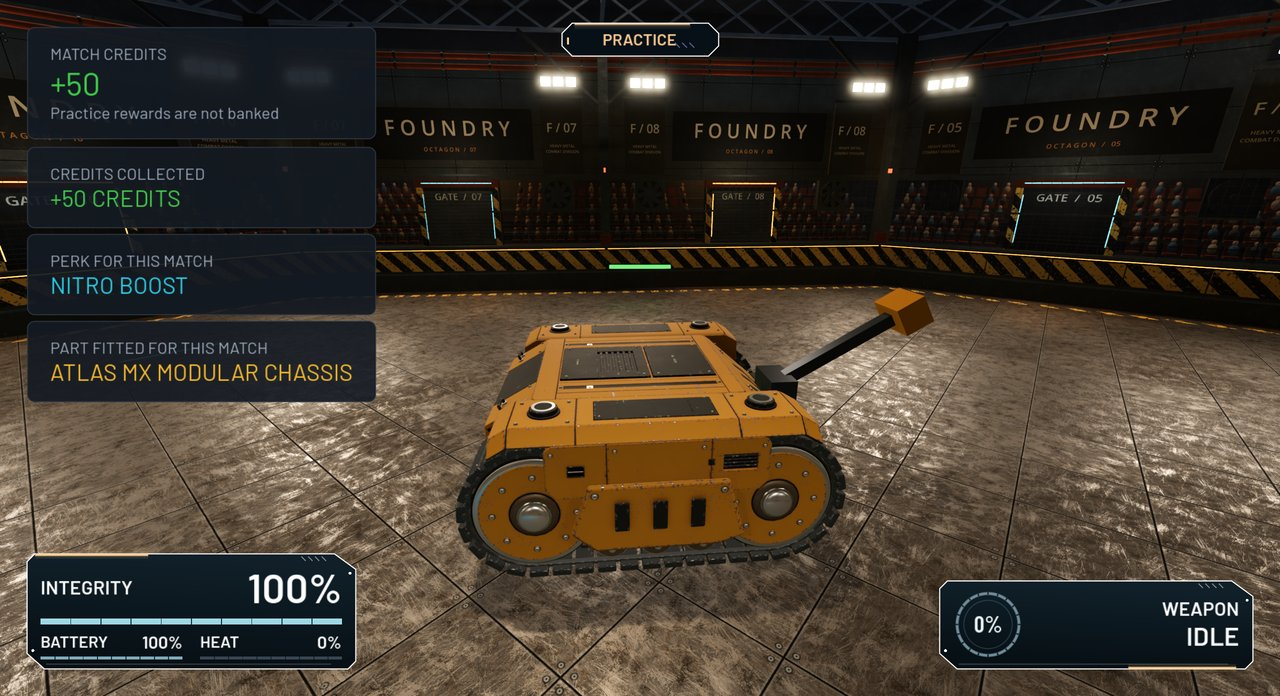
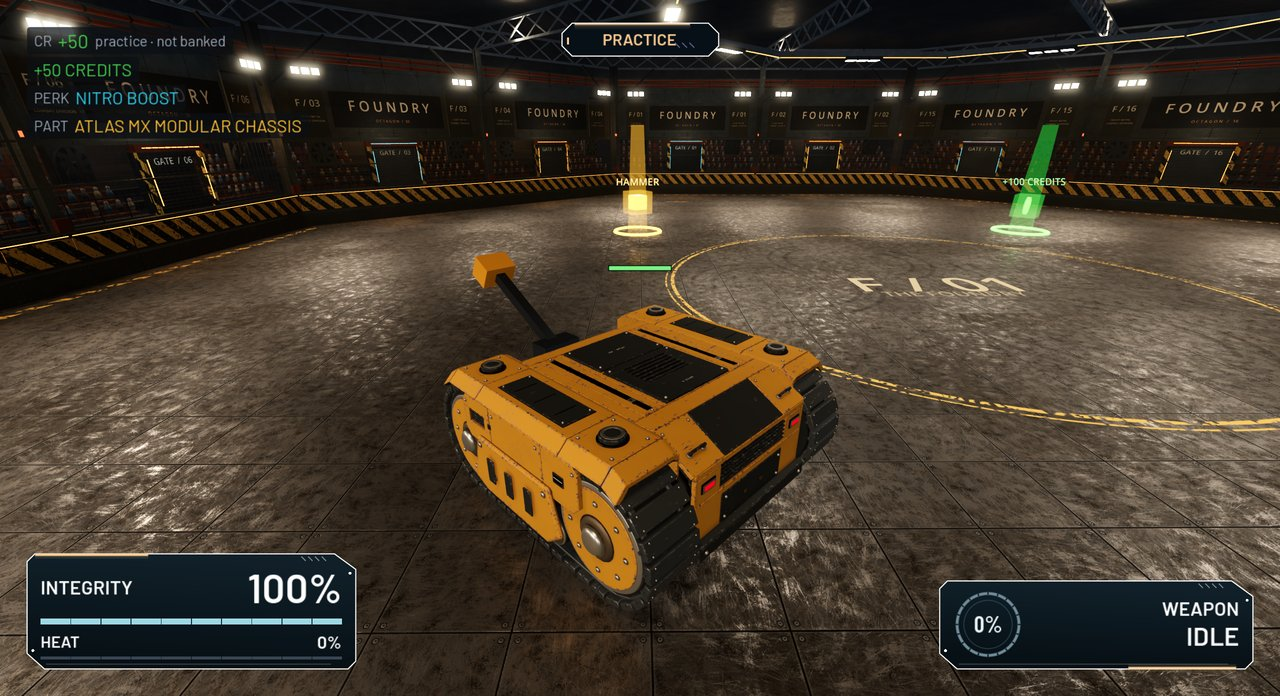
Explain refused pickups with a centred HUD notice
When a bot touches an item it cannot take (perk or part already fitted,
or a part that does not fit the build), the server reports the reason
once per contact to that bot's owner only, and the HUD shows centred text
such as "NITRO BOOST ALREADY EQUIPPED". New reliable _pickup_refused
RPC: protocol 10, build mvp-ab-21. Refs #35.

diff --git a/docs/coordination/MATCH_PICKUPS.md b/docs/coordination/MATCH_PICKUPS.md
@@ -48,6 +48,11 @@ approval for the A areas it touches (world, session/network, HUD, results). Cont
   match's credits, and up to three one-line toasts (`PART …`, `PERK …`, `+N CREDITS`) for the local
   player's pickups. The whole feed is about 94 px tall at 720p. It follows HUD text scale and stacks below
   the enlarged practice panel.
+- `PickupNotice` shows centred amber text on a dark backing, just above the audio-caption band, when the
+  server refuses a pickup the local player touched: `NITRO BOOST ALREADY EQUIPPED`, `HAMMER ALREADY
+  FITTED` or `<PART> DOESN'T FIT YOUR BUILD`. It fades after 2.5 s. The server reports a refusal once
+  per contact (again after the bot drives off and back, or the item respawns with new contents), and
+  only to that bot's owner.
 - Results overview shows `+N CREDITS EARNED · performance · pickups`. The menu header shows the
   wallet balance (`%ScrapAmount`, `%ProfileMeta`) in place of the old placeholder scrap readout.
 

diff --git a/docs/CONTRACTS.md b/docs/CONTRACTS.md
@@ -891,7 +891,10 @@ other slot replaces the MvpBot node under the same entity id and emits
 `{match_id, revision, items:[{id, point, kind, part, amount, available}],
 credits:{entity:int}, loadouts:{entity:loadout}, events:[...]}`. Clients apply
 `loadouts` through `apply_loadout` and expose `pickup_view` (without
-loadouts/events), `pickups_changed` and `pickup_collected(event)`. Results
+loadouts/events), `pickups_changed` and `pickup_collected(event)`. A refused touch
+(`MatchPickups.refusals`: `{entity, item, kind, part, reason: equipped|incompatible}`, once per
+contact) goes only to the owning peer via the reliable `_pickup_refused` RPC and emits
+`pickup_refused(event)`. Protocol 10 / `mvp-ab-21`. Results
 participants gain `credits: {pickups, performance, total}`, computed by the
 server with `MatchPickups.reward`. Clients pay `total` into
 `PlayerProfile.wallet` (`CreditWallet`, `user://wallet.cfg`) once per match
